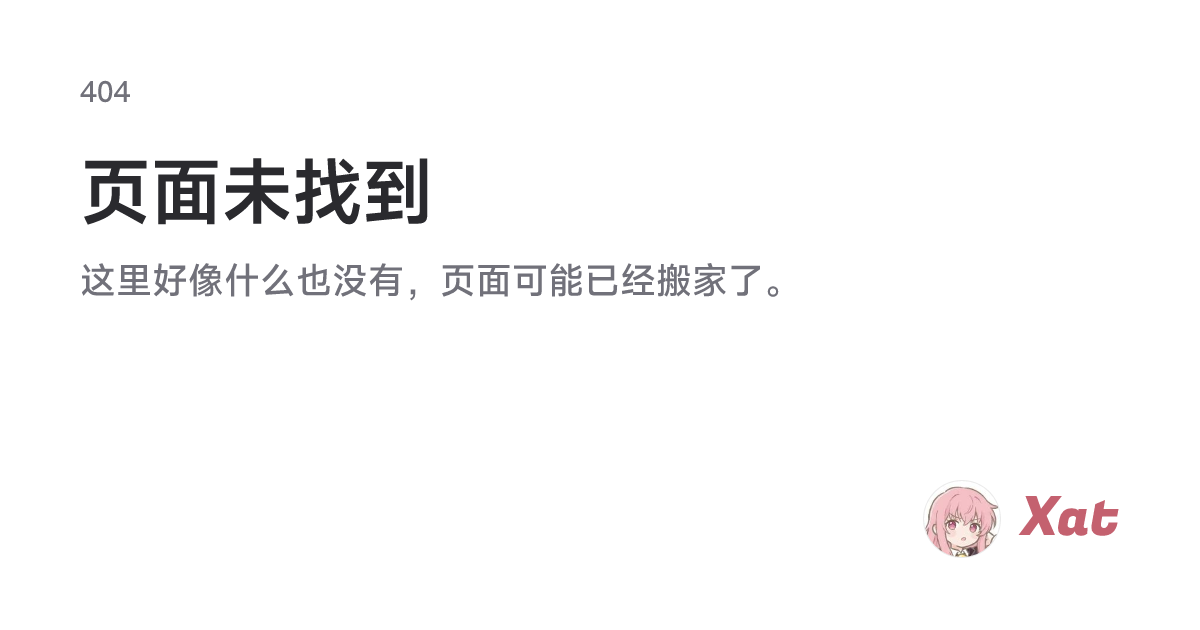
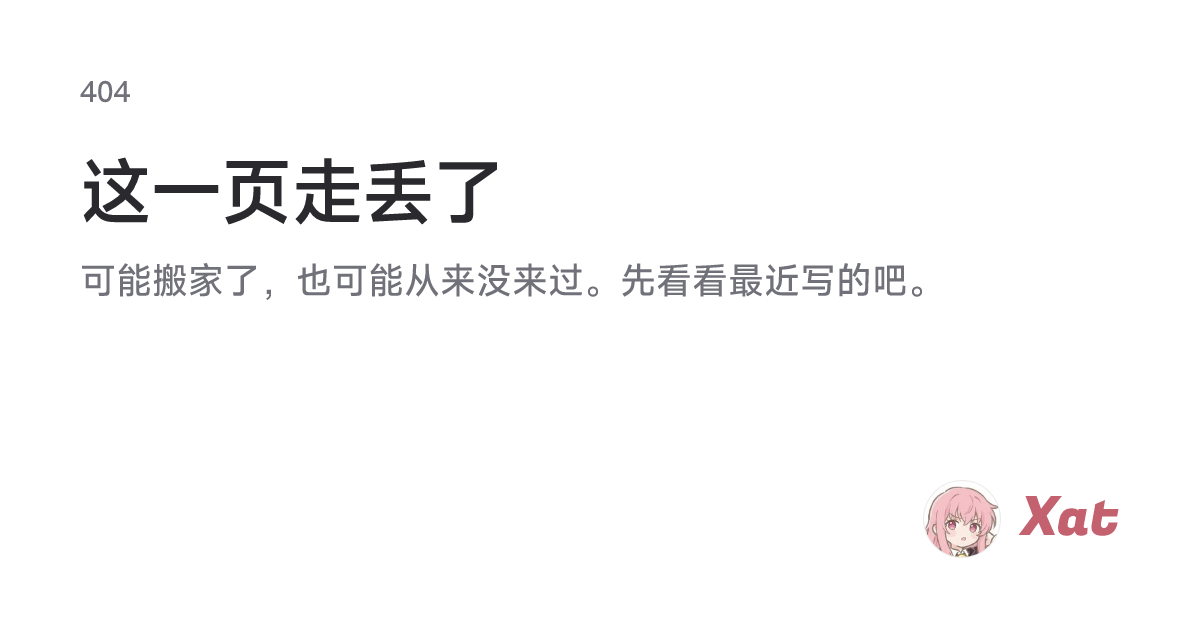
feat(404): the missing page wandered off
"Page not found" becomes 这一页走丢了 / This page wandered off /
このページは迷子みたい, matching the footer's wandering visitor, and the
description points at the recent writing listed below it. The 404 OG
card is regenerated with the new title.

Amp-Thread-ID: https://ampcode.com/threads/T-01a1f790-86ab-71bd-a3b4-a479a0b53b71

Changed region(s): [[0.0617, 0.2413, 0.4317, 0.3619], [0.2775, 0.4222, 0.7708, 0.4825], [0.0617, 0.4222, 0.2467, 0.4825]]

diff --git a/src/lib/i18n/messages/ja.ts b/src/lib/i18n/messages/ja.ts
@@ -184,8 +184,8 @@ const ja: Messages = {
 		metaDescription:
 			'AI とフロントエンドを軸に活動するデザインエンジニア。コード、デザイン、AI について書いています。',
 		notFound: {
-			description: 'ここには何もないみたい。ページは引っ越したのかもしれません。',
-			title: 'ページが見つかりません',
+			description: '引っ越したのか、最初からなかったのか。かわりに最近書いたものをどうぞ。',
+			title: 'このページは迷子みたい',
 		},
 		playName: '名前の発音を再生',
 		projectsEyebrow: 'つくったもの',

diff --git a/src/lib/i18n/messages/en.ts b/src/lib/i18n/messages/en.ts
@@ -184,8 +184,8 @@ const en: Messages = {
 		metaDescription:
 			'Design Engineer focused on AI and frontend, writing about code, design, and AI.',
 		notFound: {
-			description: 'Looks like there\'s nothing here. The page may have moved.',
-			title: 'Page not found',
+			description: 'Maybe it moved, maybe it was never here. Here\'s some recent writing instead.',
+			title: 'This page wandered off',
 		},
 		playName: 'Play name pronunciation',
 		projectsEyebrow: 'Projects',

diff --git a/src/lib/i18n/messages/zh.ts b/src/lib/i18n/messages/zh.ts
@@ -179,8 +179,8 @@ const zh: Messages = {
 		metaDescription:
 			'Design Engineer，专注 AI 与前端，写些关于前端、设计、AI 的文章。',
 		notFound: {
-			description: '这里好像什么也没有，页面可能已经搬家了。',
-			title: '页面未找到',
+			description: '可能搬家了，也可能从来没来过。先看看最近写的吧。',
+			title: '这一页走丢了',
 		},
 		playName: '播放名字读音',
 		projectsEyebrow: '项目',
